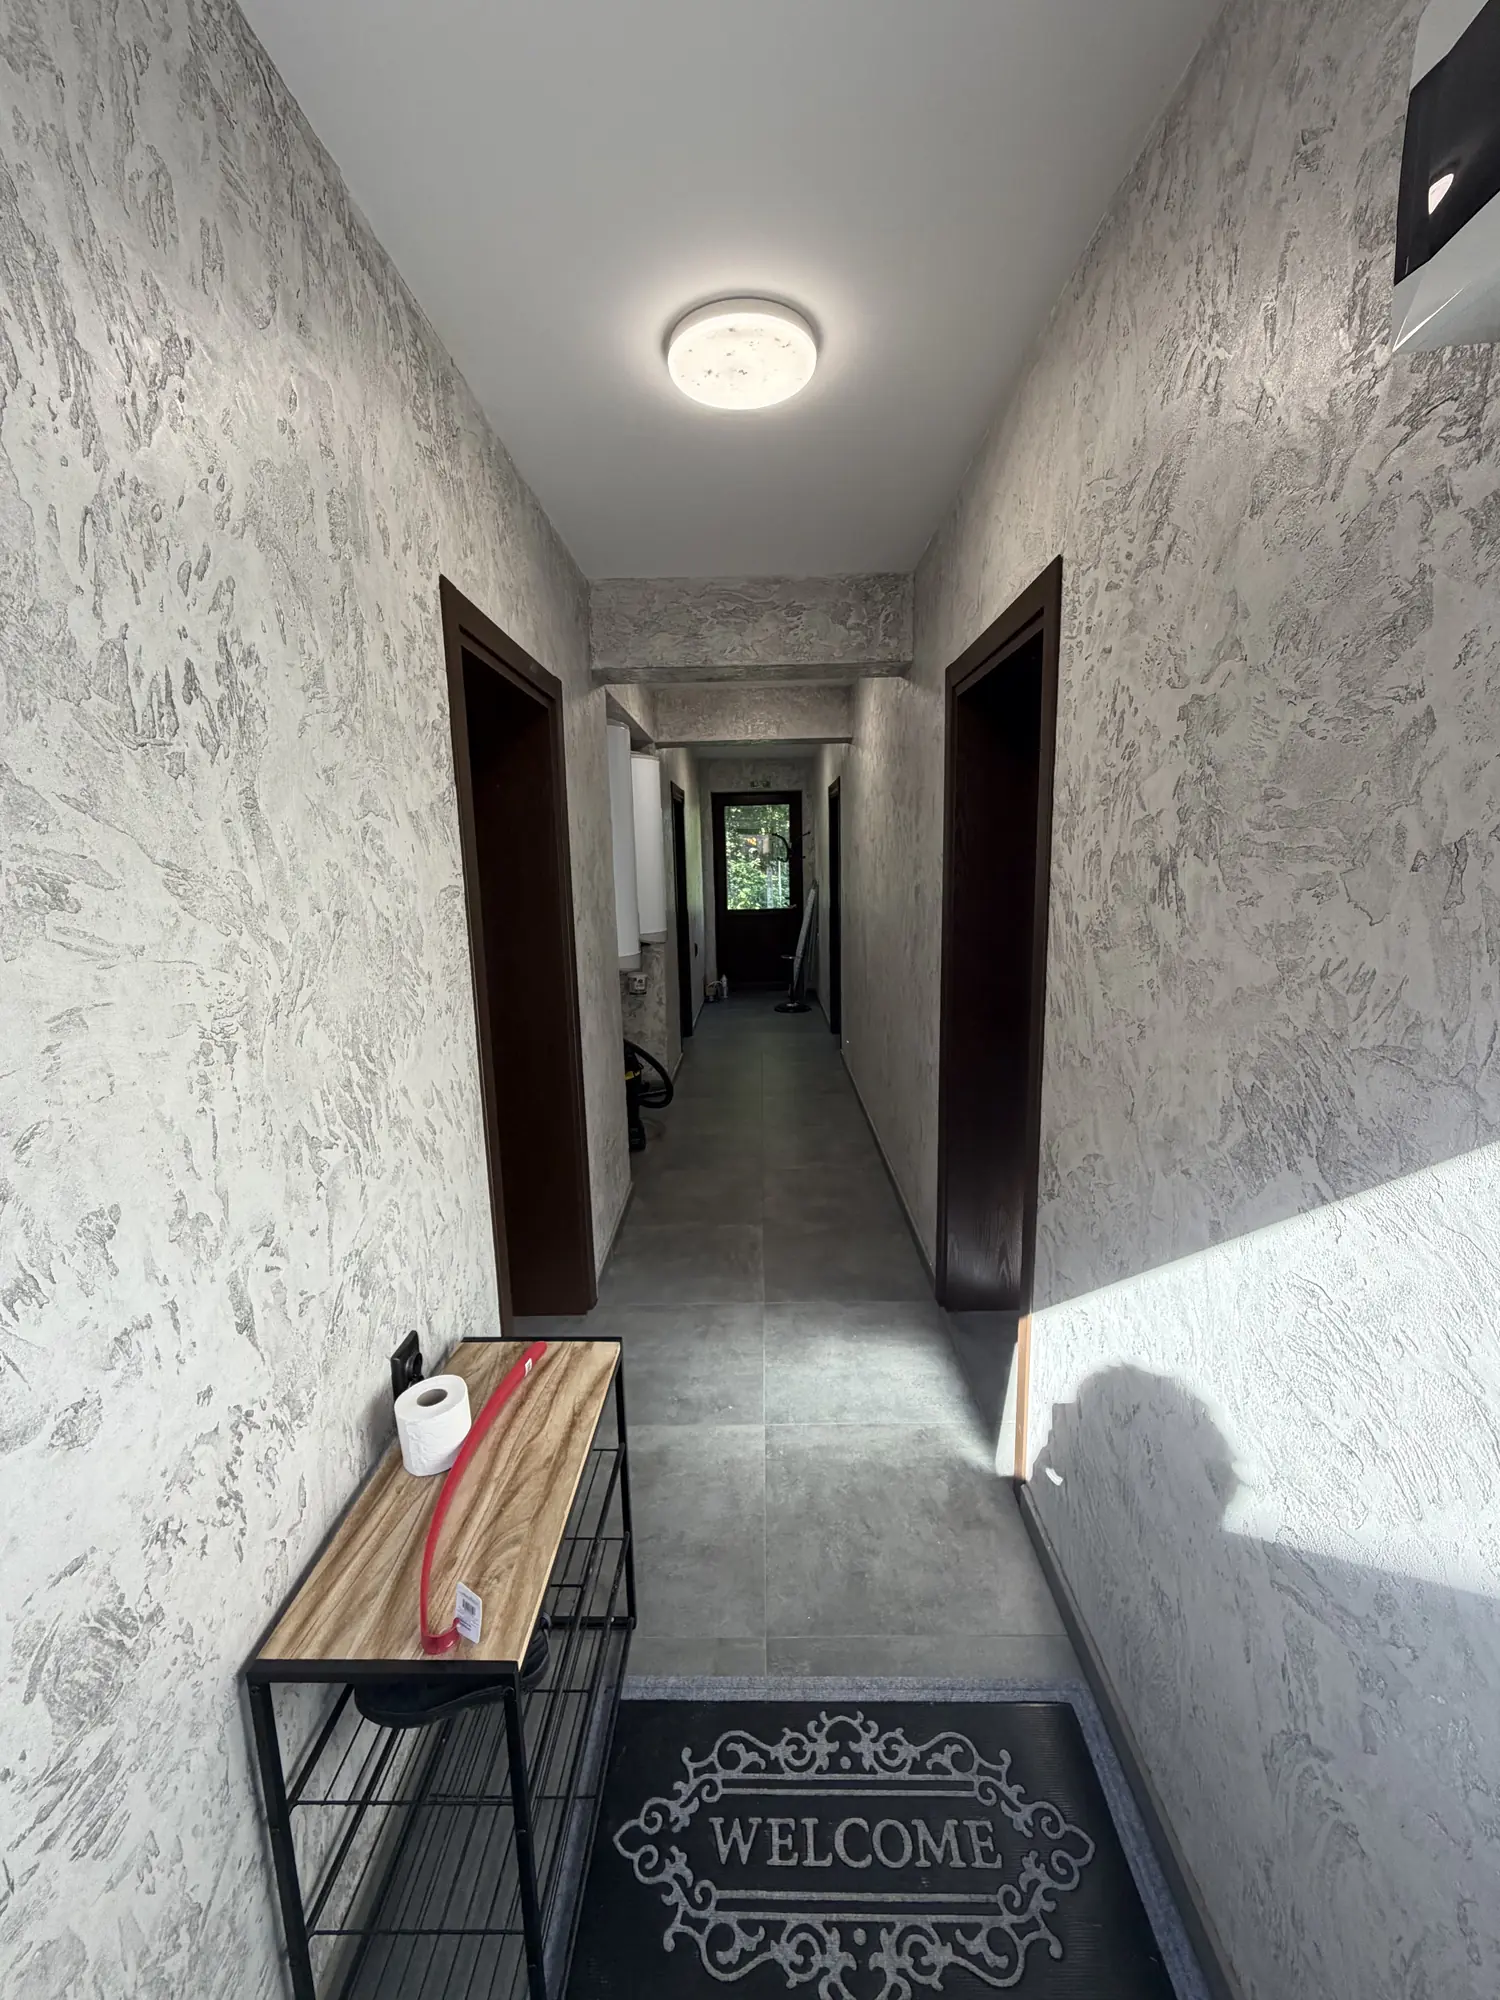
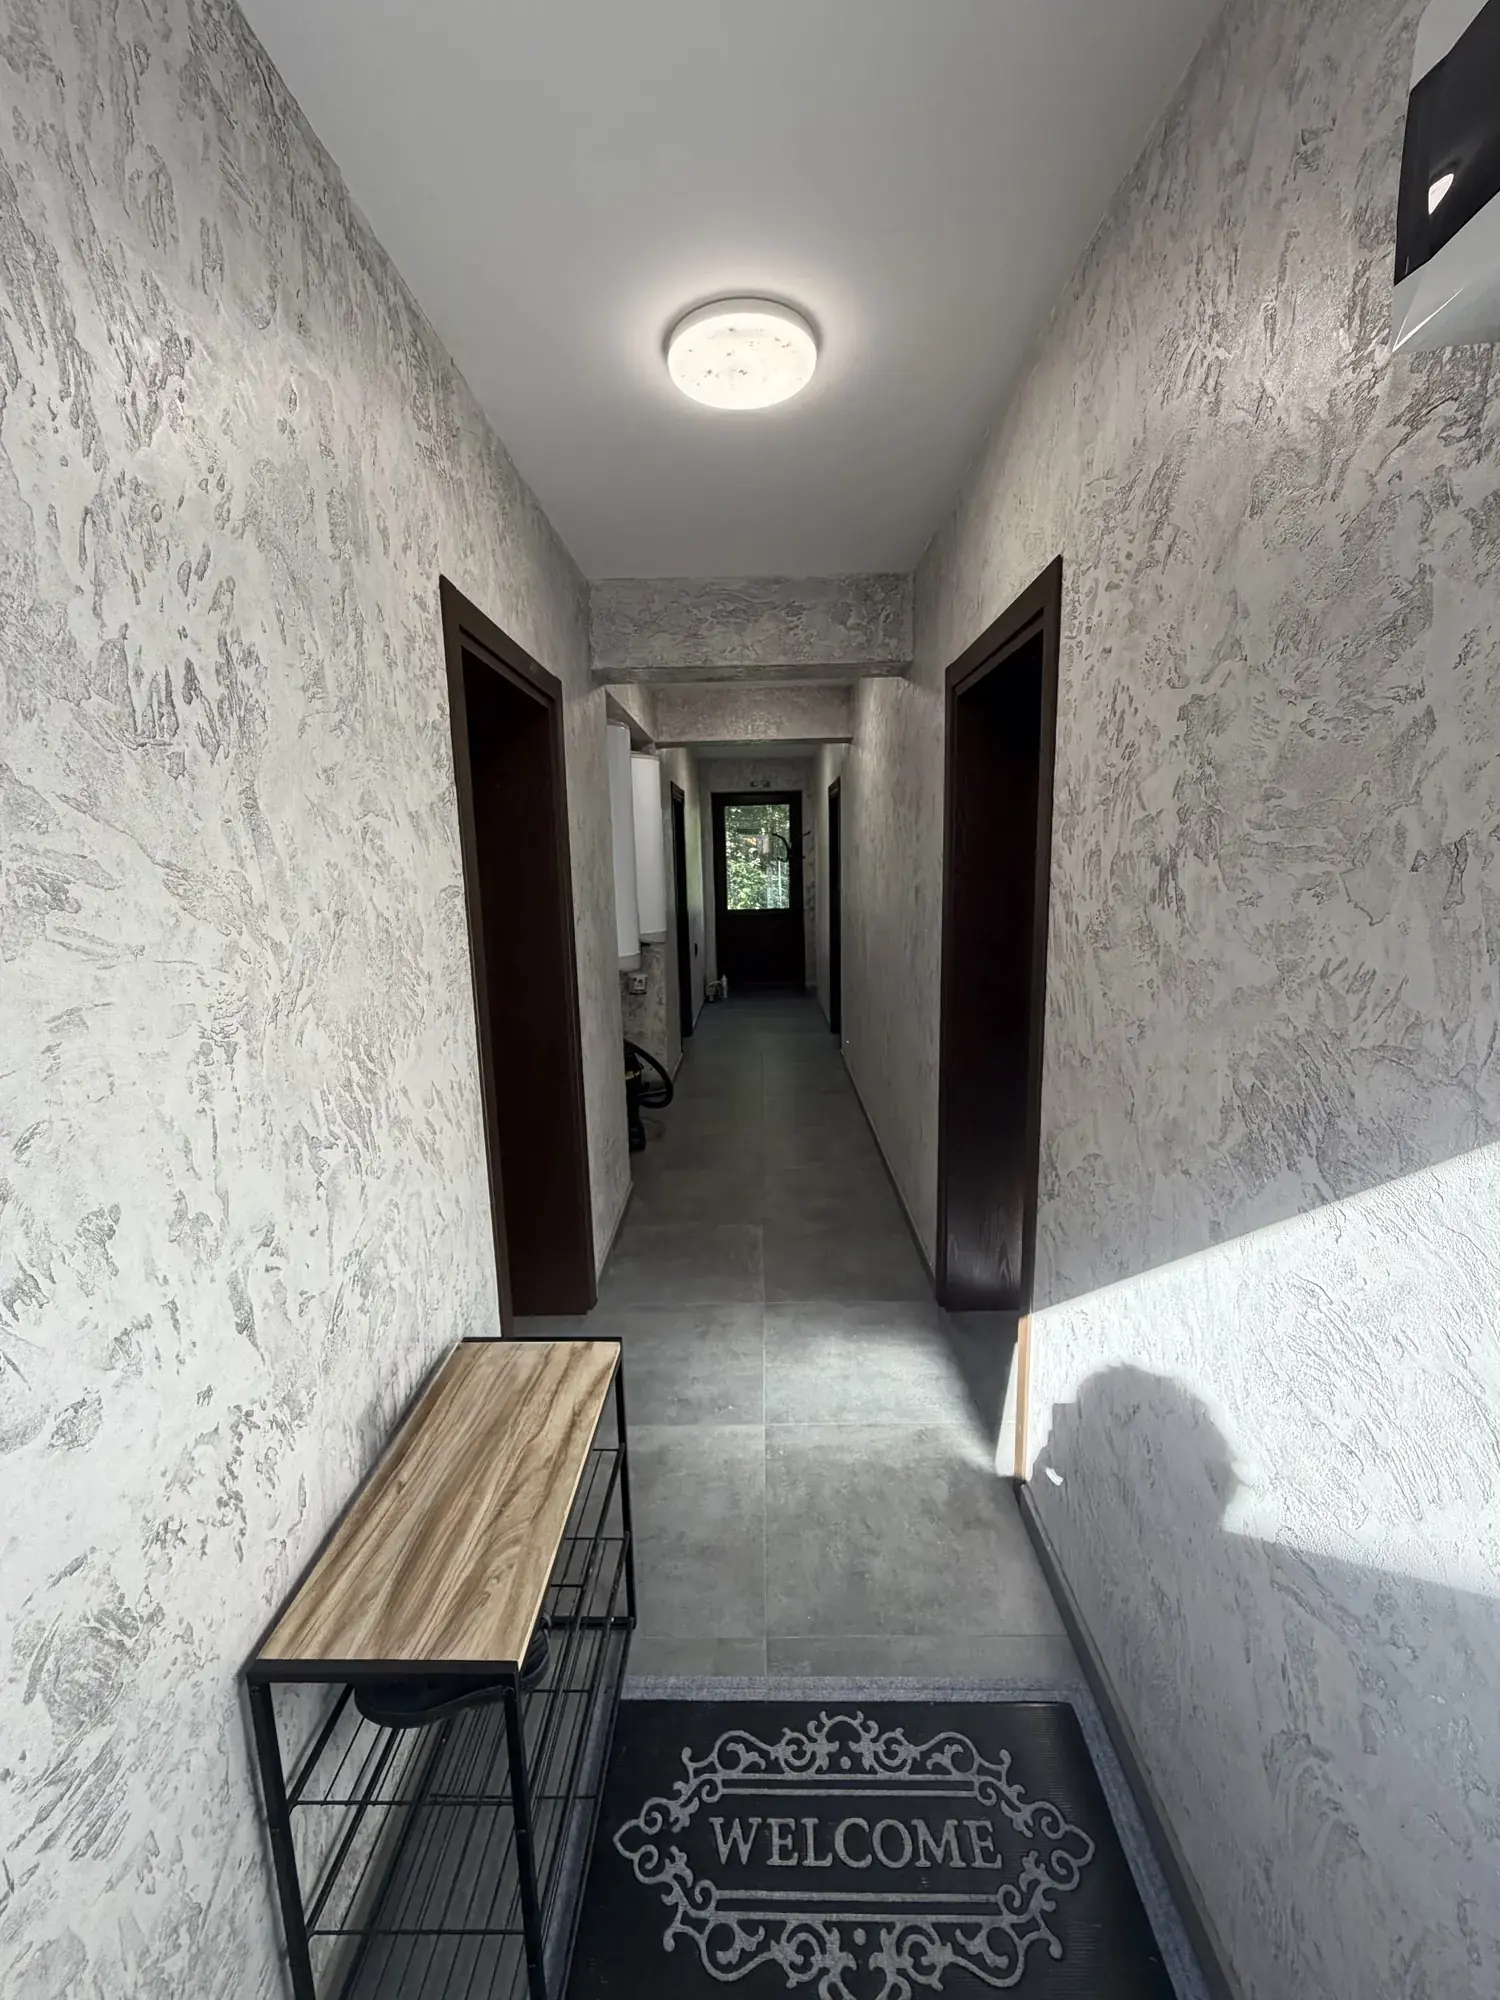
Replace corridor photo with retouched version and fix its labels
The corridor image was labelled as the dam; describe it as the corridor
and use the dam sunset photo in structured data instead.

Claude-Session: https://claude.ai/code/session_01CQsWhR6fH6mRiv8BqZzpS6

Changed region(s): [[0.2453, 0.651, 0.368, 0.837], [0.5213, 0.434, 0.552, 0.496]]

diff --git a/index.html b/index.html
@@ -77,7 +77,7 @@
             "image": [
               "https://www.bratyakotsevi.com/assets/images/hero-villa-exterior.webp",
               "https://www.bratyakotsevi.com/assets/images/hero-livingroom.webp",
-              "https://www.bratyakotsevi.com/assets/images/gallery-11.webp"
+              "https://www.bratyakotsevi.com/assets/images/gallery-18.webp"
             ],
             "address": {
               "@type": "PostalAddress",
@@ -1593,11 +1593,11 @@
               class="gallery-item reveal reveal-delay-1 overflow-hidden rounded-sm aspect-[5/3] relative cursor-pointer text-left group border-0 bg-transparent p-0 w-full"
               data-od-id="gallery-item-alpine-lake"
               data-image="assets/images/gallery-11.webp"
-              aria-label="Преглед: Язовирът"
+              aria-label="Преглед: Коридор"
             >
               <img
                 src="assets/images/gallery-11.webp"
-                alt="Язовир Сопот до с. Голяма Желязна"
+                alt="Коридор към спалните във вилата"
                 class="absolute inset-0 w-full h-full object-cover"
                 loading="lazy"
                 decoding="async"
